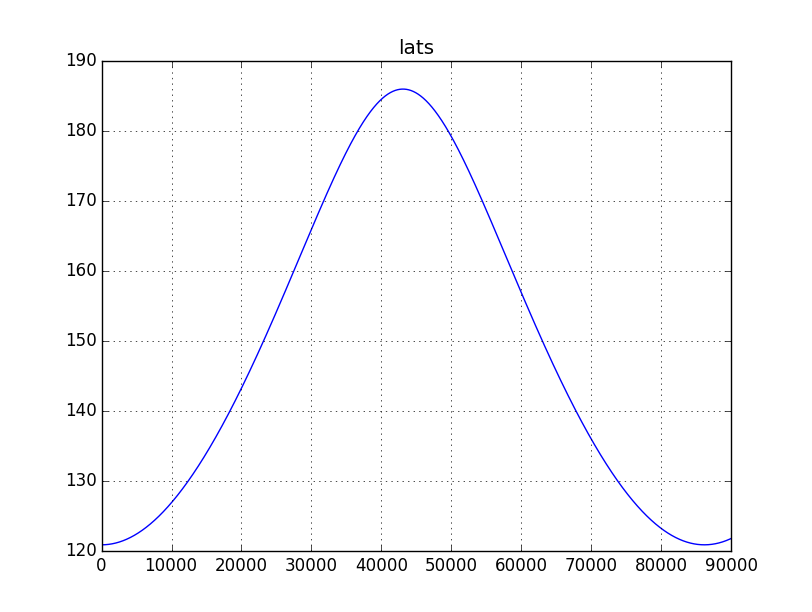
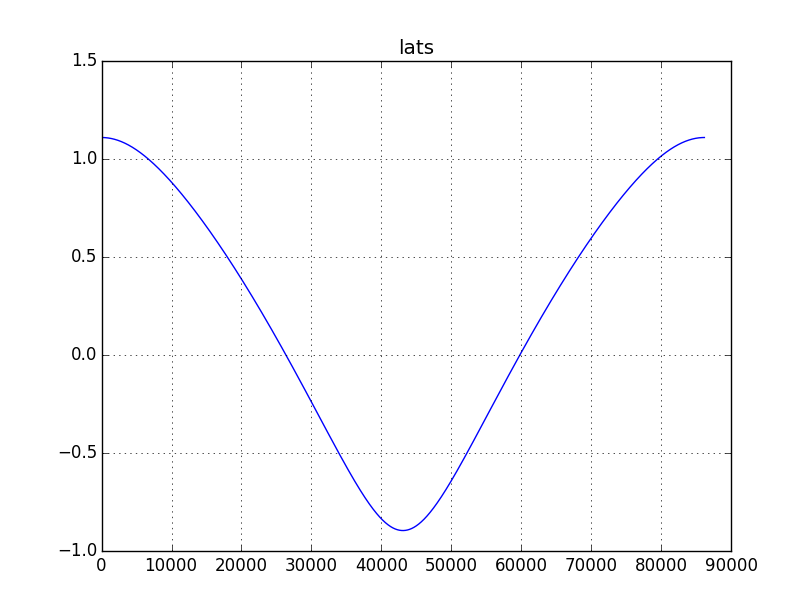
about to implement advice from harrison

diff --git a/HW2/simulateOrbit.py b/HW2/simulateOrbit.py
@@ -13,7 +13,7 @@ Vtheta = 2.74109  # km/s
 G = 6.672e-20  # km^3 / kg*s^2
 Mp = 5.974e24  # earth 5.974e24 #kg
 
-deltaTSec = 10
+deltaTSec = 10.0
 
 rn = [r]  # km
 thetaN = [theta]  # degrees
@@ -21,12 +21,12 @@ deltaRn = [Vr * deltaTSec]  # km
 deltaThetaN = [Vtheta * deltaTSec / r]  # degrees / km
 
 # hw2 new constants
-Le = 25.7617#47.6062  # degrees
-le = 360-80.1918 #360 - 122.3321  # degrees
+Le = 47.6062 #25.7617  # 47.6062  # degrees
+le = 360 - 122.3321 #360-80.1918  # 360 - 122.3321  # degrees
 earthRadius = 6371.0  # km
 phi = 63.4
-simulateSSP.initialSSPLat = 63.4  # degrees
-simulateSSP.initialSSPLon = 360-96.0  # degrees
+# simulateSSP.initialSSPLat = 63.4  # degrees
+# simulateSSP.initialSSPLon = -96.0  # degrees
 
 
 def deltaRnPlus1(deltaRn, rn, deltaThetaN, G, Mp, deltaTSec):
@@ -91,6 +91,7 @@ azimuthAngles = []
 lons = []
 lats = []
 gammas = []
+alphas = []
 i = 0
 visible = 0
 for x, y, z, satRadius in zip(xarr, yarr, zarr, rn):
@@ -103,9 +104,10 @@ for x, y, z, satRadius in zip(xarr, yarr, zarr, rn):
     # horizon check
     # pdb.set_trace()
     print "gamma", gamma, "math.acos", math.acos(earthRadius / satRadius)
-    if gamma  <= math.acos(earthRadius / satRadius):
+    if gamma <= math.acos(earthRadius / satRadius):
         El = simulateSSP.calcElevationAngle(gamma, earthRadius, satRadius)
-        Az = simulateSSP.calcAzimuth(Le, le, Ls, ls, gamma)
+        Az, alpha = simulateSSP.calcAzimuth(Le, le, Ls, ls, gamma)
+        alphas.append(alpha)
         elevationAngles.append(El)
         azimuthAngles.append(Az)
         visible += 1
@@ -113,10 +115,13 @@ for x, y, z, satRadius in zip(xarr, yarr, zarr, rn):
 print "visible", visible, "i", i
 m, s = divmod(visible * deltaTSec, 60)
 h, m = divmod(m, 60)
-print "Visible for %d:%02d:%.2d" % (h,m,s)
+print "Visible for %d:%02d:%.2d" % (h, m, s)
 simulateSSP.plotThisMotherfucker(timeVector, lons, "lons")
 simulateSSP.plotThisMotherfucker(timeVector, lats, "lats")
-simulateSSP.plotThisMotherfucker(lons, lats, "lons vs lats")
+simulateSSP.plotThisMotherfucker(lons, lats, "lons vs lats",
+    specialPoints=[(math.radians(le), math.radians(Le)), (math.radians(simulateSSP.initialSSPLon),
+        math.radians(simulateSSP.initialSSPLat))])
 simulateSSP.plotThisMotherfucker(
     azimuthAngles, elevationAngles, "Azimuth vs Elevation")
-simulateSSP.plotThisMotherfucker(timeVector, gammas, "gammas")
+simulateSSP.plotThisMotherfucker(alphas, elevationAngles, "alpohas vs elevationAngles")
+# simulateSSP.plotThisMotherfucker(timeVector, gammas, "gammas")

diff --git a/HW2/simulateSSP.py b/HW2/simulateSSP.py
@@ -11,8 +11,10 @@ import pdb
 # initialSSPLat = some value
 # phi = some other value
 # deltaTSec need this from simulateOrbit somehow
-earthRotVelRadSec = 7.2921159e-5
+earthRotVelRadSec = 7.2921159e-5 # rad/sec
 pi2 = 2 * np.pi
+initialSSPLat = 63.4  # degrees
+initialSSPLon = 360 - 96.0  # degrees
 
 
 def getCart3D(rn, thetaN, phi):
@@ -35,10 +37,10 @@ def getCart3D(rn, thetaN, phi):
 
 def convertXYZToLatLon(x, y, z, secsFromApogee):
     r = math.sqrt(x * x + y * y + z * z)
-    # LAT in rad does NOT change as earth rotates. [0, 360]
-    lat = -1 * (math.acos(z / r) + math.radians(initialSSPLat)) + np.pi -0.4 # ((math.degrees(math.acos(z / r)) + initialSSPLat) % 360) - 180
+    # LAT in rad does NOT change as earth rotates. [0, pi]
+    lat =  -1*(math.acos(z / r)) + math.radians(initialSSPLat) +.57#+ np.pi # ((math.degrees(math.acos(z / r)) + initialSSPLat) % 360) - 180
     # lat = math.degrees(lat)
-    # LON in rad DOES change as earth rotates. [0 , 360]
+    # LON in rad DOES change as earth rotates. [0, 2pi]
     lon = (math.atan2(y, x) % pi2) - earthRotVelRadSec * secsFromApogee + math.radians(initialSSPLon)#(math.degrees(math.atan2(y, x))  + initialSSPLon - earthRotVelRadSec * secsFromApogee ) % 360
     return lat, lon
 
@@ -65,9 +67,9 @@ def getSSPRelativityToES(Le, le, Ls, ls):
     else:
         compass += "N"
     if le > ls:
-        compass += "E"
-    else:
         compass += "W"
+    else:
+        compass += "E"
     return compass
 
 
@@ -79,15 +81,18 @@ def calcAzimuth(Le, le, Ls, ls, gamma):
     if compass == "NE":
         return alpha
     elif compass == "SW":
-        return alpha + 180
+        return alpha + 180, alpha
     elif compass == "SE":
-        return 180 - alpha
+        return 180 - alpha, alpha
     else:
-        return 360 - alpha
+        return 360 - alpha, alpha
 
 
-def plotThisMotherfucker(x, y, title=""):
+def plotThisMotherfucker(x, y, title="", specialPoints = None):
     ax = plt.plot(x, y, ms=10, alpha=1, color='b')
+    if specialPoints != None:
+        for point in specialPoints:
+            plt.plot([point[0]], [point[1]], marker="x", color="red")
     plt.grid(True)
     plt.title(title)
     plt.show()
